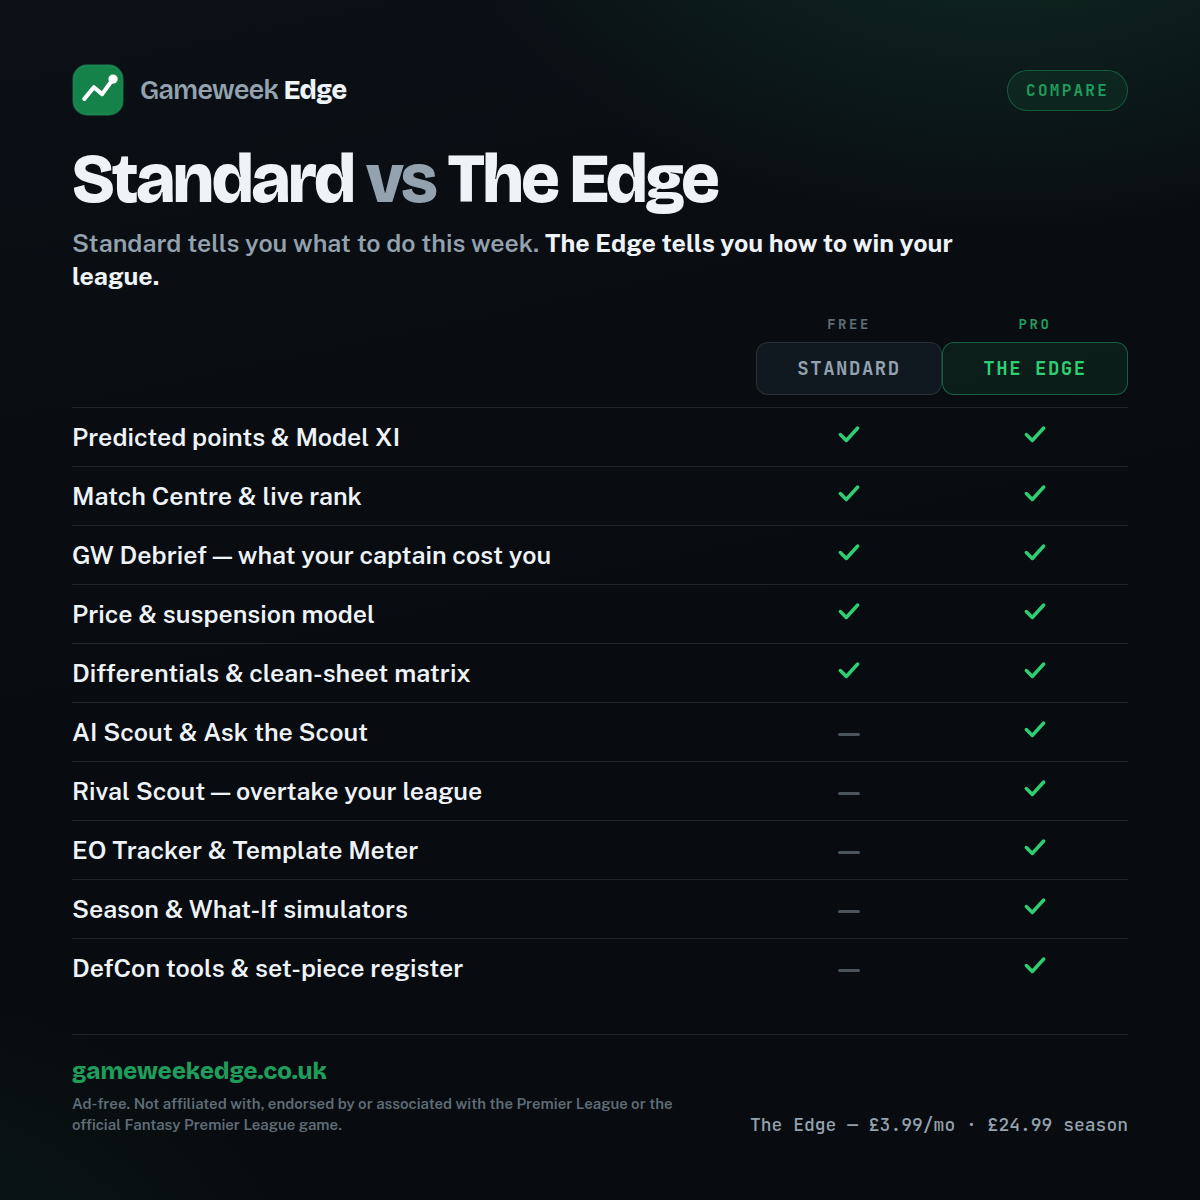
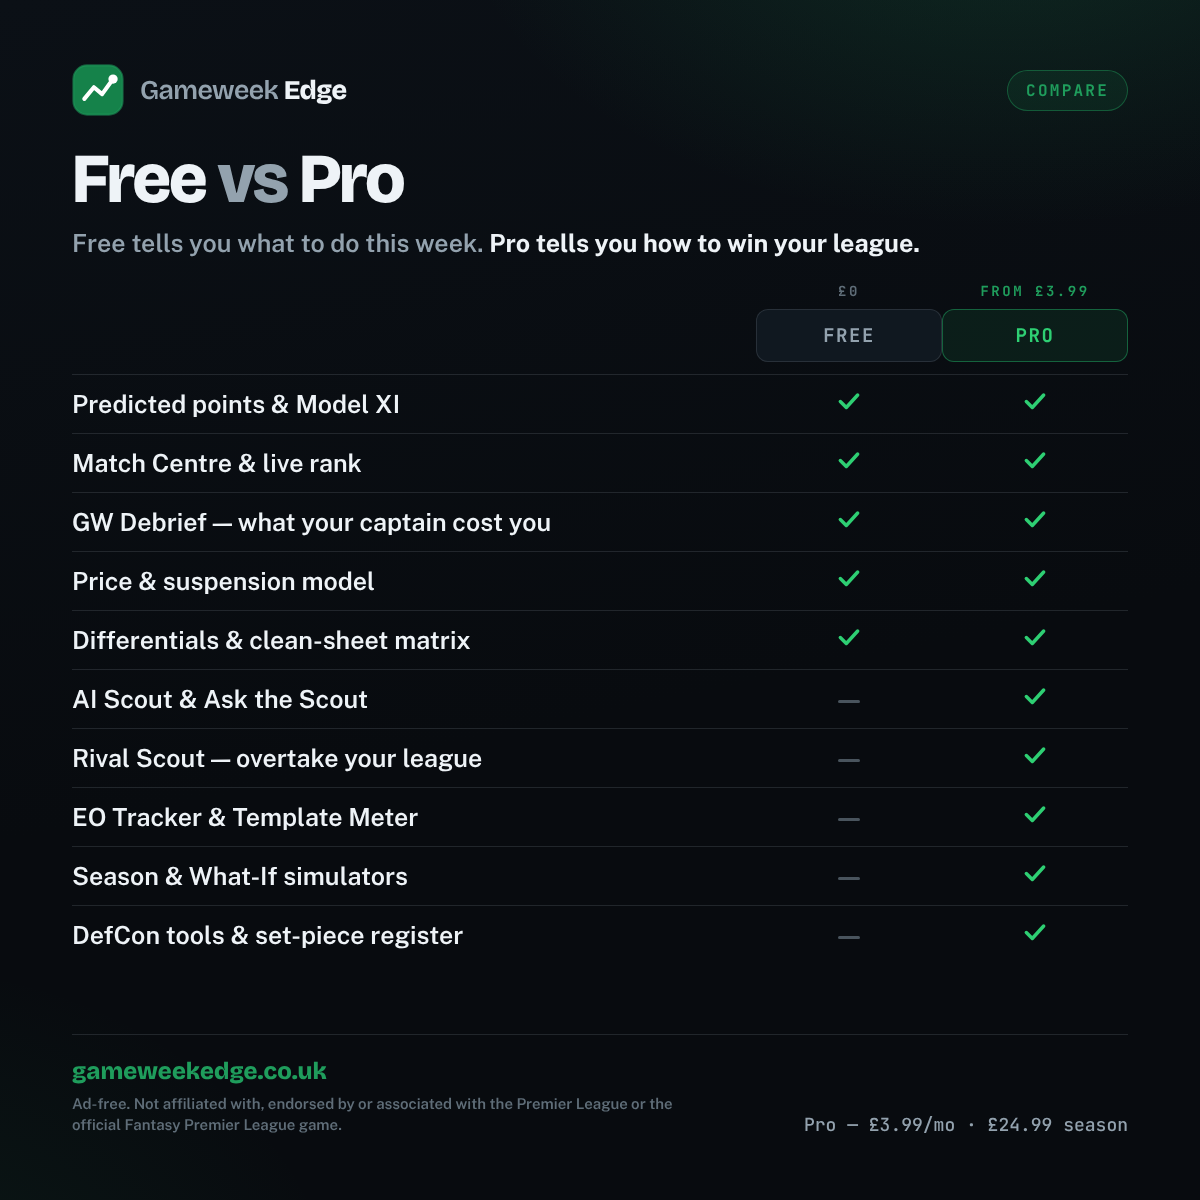
Fix the browser suite, then the should-fix pass from the design review (#80)
* Make the paid plan clear and easy to buy

One plan name everywhere: Pro (and Free), replacing the mix of Pro,
The Edge and Standard.

Upgrade sheet: the two ways to pay are now real buttons and come first.
The season pass leads as best value with its saving worked out from the
prices. A close X replaces the full-width Close button. Each Pro feature
is described by what the manager gets. A link to the public record sits
beside the price. The sheet scrolls inside the screen on small phones.

Pricing page: the same buttons and feature list, shared with the sheet.

First screen: a one-line statement of what the product is, plus proof
points, for direct visitors who never see /welcome.

Locked previews: text behind the blur is rewritten to shape-only
characters, so paid values are no longer readable by selecting or
inspecting the page.

Consent bar: raised above the sidebar, which hid its first words on
desktop.

Claude-Session: https://claude.ai/code/session_018ACBxgeZgtidjnGpPFjAD1

* Fix the browser suite: bring the consent test up to date

The analytics-bar section still asserted the rules from before the
visitor-to-customer work: bar on the first screen, zero requests before a
choice. The app now holds the bar back during the first run and counts a
short allowlist of funnel events as a bare tally. The section threw on a
missing button and took every later section down with it, so the suite
has been red and half-run on main.
[…]

diff --git a/index.html b/index.html
@@ -312,7 +312,7 @@ try{
   --blue-soft:rgba(47,109,199,.10);
   --purple:#795ac6;
   --purple-soft:rgba(122,92,199,.10);
-  --accent-cta:#a46615;--accent-cta-ink:#ffffff;
+  --accent-cta:#147e48;--accent-cta-ink:#ffffff;
   --accent-alert:#c23632;
   --accent-warn:#8a690e;
   --shadow:0 1px 3px rgba(12,16,20,.07),0 6px 16px rgba(12,16,20,.05);
@@ -1537,6 +1537,9 @@ a.sb-game-btn:focus-visible{outline:2px solid var(--green-bright);outline-offset
   .seg{max-width:100%;overflow-x:auto;-webkit-overflow-scrolling:touch}
   .gwchip{max-width:48vw}
   .gwchip-dl{white-space:nowrap;overflow:hidden;text-overflow:ellipsis;max-width:30vw}
+  /* "opens in 6d 2…" lost the one figure the chip exists for. The lead word
+     goes instead; the gameweek and the countdown both fit. */
+  .gwchip-w{display:none}
   #export-btn{display:none}
   #tbm-search kbd{display:none}
   .tb-crumb{display:none}
@@ -3464,6 +3467,7 @@ body.gw-live .live-ping{display:block;animation:tkpulse 1.6s infinite}
            into every pre-rendered shell (those are built from this file) and
            they are there whether or not a script runs. -->
       <p class="sb-foot-links sb-foot-ref">
+        <a href="/pricing">Pricing</a>
         <a href="/tools/">FPL tools</a>
         <a href="/glossary">Glossary</a>
         <a href="/fplbasics">FPL basics</a>
@@ -6515,7 +6519,7 @@ async function buildRightRail(){
         const pred=m.pH>=m.pD&&m.pH>=m.pA?'H':(m.pA>=m.pD?'A':'D');
         const act=f.team_h_score>f.team_a_score?'H':(f.team_h_score<f.team_a_score?'A':'D');if(pred===act)hits++;});
       rec='<div class="rr-h">Recent model calls</div><div class="rr-stat">favourite correct <b>'+Math.round(100*hits/done.length)+'%</b></div>'+
-        '<div class="dl-sub" style="margin-top:6px">Over '+done.length+' graded matches this season. Per-gameweek captain calls build up here as more is played.</div>';
+        '<div class="dl-sub" style="margin-top:6px">Over '+done.length+' graded matches this season. A match has three possible results, so a blind guess is right about 33% of the time. Per-gameweek captain calls build up here as more is played.</div>';
     }else rec='<div class="rr-h">Recent model calls</div><div class="dl-sub">The model’s last three gameweek calls, what it said versus what happened, appear here once the season is under way.</div>';
     document.getElementById('rr-recent').innerHTML=rec;
   }catch(_){}
@@ -7397,7 +7401,9 @@ function proScrub(host){
   const w=document.createTreeWalker(host,NodeFilter.SHOW_TEXT);
   let n;while((n=w.nextNode())){
     const v=n.nodeValue;if(!v||!/[0-9A-Za-zÀ-ÿ]/.test(v))continue;
-    const pe=n.parentNode&&n.parentNode.nodeName;if(pe==='STYLE'||pe==='SCRIPT')continue;
+    const par=n.parentNode,pe=par&&par.nodeName;if(pe==='STYLE'||pe==='SCRIPT')continue;
+    /* Section headings name the tool, not its answer. They stay readable. */
+    if(par&&par.closest&&par.closest('.card-title'))continue;
     const o=proScrubText(v);if(o!==v)n.nodeValue=o;
   }
   host.querySelectorAll('[alt],[title],[aria-label],[data-tip],[placeholder]').forEach(el=>{
@@ -9074,7 +9080,7 @@ async function hydrateDashboard(host){
      than opening it. One strip: the live record when there is one, the
      held-out backtest when there is not, and the way to every prediction. */
   const trust='<div class="trust-strip"><span class="perf-h">Model performance</span>'+
-    (done.length?'<span>favourite correct <b>'+Math.round(100*hits/done.length)+'%</b> \u00b7 '+done.length+' matches</span>'+
+    (done.length?'<span>favourite correct <b>'+Math.round(100*hits/done.length)+'%</b> \u00b7 '+done.length+' matches \u00b7 a blind guess gets 33%</span>'+
       (lastN?'<span>last GW <b>'+lastHits+'/'+lastN+'</b></span>':''):'<span>season not started: graded from kick-off</span>')+
     '<span class="expert-only">backtest '+jt('RPS')+' <b>0.2126</b> '+jt('held-out backtest','held-out')+' 25/26</span>'+
     '<span class="beginner-only">forecasts tested on unseen gameweeks, graded in public</span>'+
@@ -9139,7 +9145,11 @@ async function hydrateDashboard(host){
      and the league-wide numbers, before the model says anything. The
      three calls stay exactly where they were, one screen down. */
   const board=dashBoard(b,fixtures,mid,entry,histAll,liveGwPts);
-  host.innerHTML=hero+board+q1+q1b+jump+
+  /* Without a team the board opens on last week's finished match days,
+     which answers nothing for a newcomer. They get the captain call first:
+     the product's answer, before its scoreboard. A linked manager keeps
+     the board on top, because there it leads with their own points. */
+  host.innerHTML=hero+(mid?board+q1:q1+board)+q1b+jump+
     '<div class="quad-grid expert-only">'+q2+q3+q4+'</div>'+q5+
     dashNextSteps(mid)+trust;
   tickTicker();
@@ -30224,7 +30234,7 @@ function tickTicker(){
     const ms=new Date(focus.deadline_time)-Date.now();
     const t=cdShort(focus.deadline_time)||'–';
     setTone(ms<=36e5?'alert':ms<=216e5?'warn':'');
-    set('tk-dl','deadline <b>'+t+'</b>');
+    set('tk-dl','<span class="gwchip-w">deadline </span><b>'+t+'</b>');
   }else if(ph.phase==='live'){
     setTone('');
     set('tk-dl','<b class="pos">● live</b>: in play now');
@@ -30234,7 +30244,7 @@ function tickTicker(){
   }else if(ph.phase==='between'&&ph.target){
     setTone('');
     const t=cdShort(ph.target.deadline_time);
-    set('tk-dl','opens <b>'+(t||fmtDayShort(ph.target.deadline_time))+'</b>');
+    set('tk-dl','<span class="gwchip-w">opens </span><b>'+(t||fmtDayShort(ph.target.deadline_time))+'</b>');
   }else{
     setTone('');
     set('tk-dl','season <b>ended</b>');

diff --git a/scripts/social/standard-vs-edge.html b/scripts/social/standard-vs-edge.html
@@ -2,7 +2,7 @@
 <html lang="en-GB">
 <head>
 <meta charset="utf-8">
-<title>Gameweek Edge — Standard vs The Edge</title>
+<title>Gameweek Edge — Free vs Pro</title>
 <link rel="stylesheet" href="./fonts/fonts.css">
 <style>
 /* Evergreen social card — 1200×1200, the tier comparison.
@@ -98,9 +98,9 @@ tbody tr.pro-row td:first-child{color:var(--ink)}
   </div>
 
   <div class="head">
-    <h1>Standard <em>vs</em> The Edge</h1>
-    <p class="sub">Standard tells you what to do this week.
-      <b>The Edge tells you how to win your league.</b></p>
+    <h1>Free <em>vs</em> Pro</h1>
+    <p class="sub">Free tells you what to do this week.
+      <b>Pro tells you how to win your league.</b></p>
   </div>
 
   <table>
@@ -108,8 +108,8 @@ tbody tr.pro-row td:first-child{color:var(--ink)}
     <thead>
       <tr>
         <th></th>
-        <th><span class="cap">Free</span><span class="chip">Standard</span></th>
-        <th><span class="cap pro">Pro</span><span class="chip pro">The Edge</span></th>
+        <th><span class="cap">£0</span><span class="chip">Free</span></th>
+        <th><span class="cap pro">from £3.99</span><span class="chip pro">Pro</span></th>
       </tr>
     </thead>
     <tbody id="rows"></tbody>
@@ -120,7 +120,7 @@ tbody tr.pro-row td:first-child{color:var(--ink)}
       <em>Ad-free. Not affiliated with, endorsed by or associated with the Premier
         League or the official Fantasy Premier League game.</em>
     </div>
-    <div class="ft-r">The Edge — £3.99/mo · £24.99 season</div>
+    <div class="ft-r">Pro — £3.99/mo · £24.99 season</div>
   </div>
 </div>
 

diff --git a/docs/social/CONTENT_PACK_AUG-05_TO_GW1.md b/docs/social/CONTENT_PACK_AUG-05_TO_GW1.md
@@ -24,7 +24,7 @@ the moment the deadline passes on the 21st.
 |---|---|---|---|
 | 1 | ~~Render the DefCon explainer card.~~ **Done** — `assets/social/gwe-defcon-explainer.png`, built by `npm run social` from `scripts/social/defcon-explainer.html`. | Post 1 (Wed 5 Aug) needed it. | ☑ |
 | 2 | **Batch-render the Social Studio cards** listed in §2 and drop them in `assets/social/`. Must be done **in the app, signed in as owner** — the Studio draws from the live FPL API, so these cannot be generated from the repo. | Seven of the fourteen posts attach one. | ☐ |
-| 3 | **Bio + pin, both platforms.** Unofficial-status line in the bio (not on every post); pin the Standard vs The Edge post once it's up on the 14th. | Keeps individual posts clean and legally covered. | ☐ |
+| 3 | **Bio + pin, both platforms.** Unofficial-status line in the bio (not on every post); pin the Free vs Pro post once it's up on the 14th. | Keeps individual posts clean and legally covered. | ☐ |
 
 ---
 
@@ -48,7 +48,7 @@ is now *teach → prove → sharpen → convert*:
 |---|---|---|---|
 | **Job** | Give away real analysis; show the model grades itself | Turn analysis into a concrete GW1 squad | Highest-intent moment of the year |
 | **Posts** | 7 | 5 | 2 |
-| **The Edge push** | One (Fri 14, after a week of free value) | — | One, in the deadline post |
+| **Pro push** | One (Fri 14, after a week of free value) | — | One, in the deadline post |
 
 **Four ideas are new**, drawn from panels the earlier packs never used: the
 **Chip plan** (GW1–19), the **Pre-season Draft**, the **Set Piece Register**
@@ -93,7 +93,7 @@ design — Posts 4, 8b and 13.
 | Scheduling | Typefully | Buffer (Typefully is X-only) — **never auto-mirror the X copy** |
 
 **Brand quick-ref** — calm, British English, *"predicted points"* not *"nailed
-on"*. Paid tier is **The Edge**, £3.99/mo or £24.99 season. Free tier includes
+on"*. Paid tier is **Pro**, £3.99/mo or £24.99 season. Free tier includes
 live rank, Bonus Tracker, Match Centre and GW Debrief. Link:
 **gameweekedge.co.uk**. Disclaimer lives in the bio; it goes in a post only
 where noted.
@@ -279,25 +279,25 @@ the opening six gameweeks."
 
 ---
 
-## POST 7 — Standard vs The Edge *(Fri 14 Aug, 6–8pm)* — **pin this**
+## POST 7 — Free vs Pro *(Fri 14 Aug, 6–8pm)* — **pin this**
 
 Placed after nine days of free value, so it reads as a payoff rather than a
 pitch. **Attach `gwe-standard-vs-edge.png`.** Pin it on both platforms — it's the
 answer to "what's the paid bit?" for the rest of the run-in.
 
-**Alt text:** "Comparison table — Standard versus The Edge. Both include
+**Alt text:** "Comparison table — Free versus Pro. Both include
 predicted points, Match Centre and live rank, GW Debrief, the price and
-suspension model, and differentials. The Edge adds AI Scout, Rival Scout, EO
+suspension model, and differentials. Pro adds AI Scout, Rival Scout, EO
 Tracker and Template Meter, the season and what-if simulators, and DEFCON tools."
 
 **X:**
 > Gameweek Edge, two ways:
 >
-> **Standard** (free, ad-free) — predicted points, Match Centre, live rank, price & suspension model, and a debrief that tells you what your captain actually cost you.
+> **Free** (ad-free) — predicted points, Match Centre, live rank, price & suspension model, and a debrief that tells you what your captain actually cost you.
 >
-> **The Edge** (£3.99/mo · £24.99 season) — how to win your mini-league: AI Scout, Rival Scout, EO Tracker, the simulators.
+> **Pro** (£3.99/mo · £24.99 season) — how to win your mini-league: AI Scout, Rival Scout, EO Tracker, the simulators.
 >
-> Standard tells you what to do this week. The Edge tells you how to win your league.
+> Free tells you what to do this week. Pro tells you how to win your league.
 >
 > gameweekedge.co.uk
 > *Not affiliated with the Premier League or the official Fantasy Premier League game.*
@@ -305,8 +305,8 @@ Tracker and Template Meter, the season and what-if simulators, and DEFCON tools.
 **Bluesky:**
 > Gameweek Edge, two ways:
 >
-> Standard (free, ad-free) — what to do this week.
-> The Edge (£3.99) — how to win your league: AI Scout, Rival Scout, EO Tracker, the simulators.
+> Free (ad-free) — what to do this week.
+> Pro (£3.99) — how to win your league: AI Scout, Rival Scout, EO Tracker, the simulators.
 >
 > One app, one tap deeper. #FPL
 > gameweekedge.co.uk
@@ -479,9 +479,9 @@ each price point for gameweek 1."
 
 # PART THREE — Fri 21 Aug · *deadline day*
 
-## POST 13 — Deadline nudge + The Edge *(Fri 21 Aug, ~1pm)*
+## POST 13 — Deadline nudge + Pro *(Fri 21 Aug, ~1pm)*
 
-Highest-intent moment of the entire run-in. Free value in the body, The Edge as
+Highest-intent moment of the entire run-in. Free value in the body, Pro as
 the payoff. **Post this one live** so you can pin the real deadline time rather
 than a scheduled guess. No image — urgency reads better as plain text.
 
@@ -493,7 +493,7 @@ than a scheduled guess. No image — urgency reads better as plain text.
 > ✅ Chips planned, not just picked
 > ✅ Your rivals' likely captains — and where your differential actually is
 >
-> The first three are free, for everyone. The fourth is The Edge.
+> The first three are free, for everyone. The fourth is Pro.
 >
 > Good luck tonight 👇 gameweekedge.co.uk
 
@@ -521,14 +521,14 @@ that evening.
 | **9 Aug** | Sun | 4 | Conversation post | poll | single | ~7pm |
 | **11 Aug** | Tue | 5 | Model grades itself ⚓ | single + shot | single | 6–8pm |
 | **13 Aug** | Thu | 6 | Opening fixtures | single + card | single + card | 6–8pm |
-| **14 Aug** | Fri | 7 | Standard vs The Edge 📌 | single + card | single + card | 6–8pm |
+| **14 Aug** | Fri | 7 | Free vs Pro 📌 | single + card | single + card | 6–8pm |
 | **15 Aug** | Sat | 8 | Who takes what | single + card | single + card | late morning |
 | **16 Aug** | Sun | 8b | Reply-bait follow-up | single | single | ~7pm |
 | **17 Aug** | Mon | 9 | The Data XI ⭐ | single + card | thread ×2 + card | 6–8pm |
 | **18 Aug** | Tue | 10 | Price watch | single + shot | single + shot | 6–8pm |
 | **19 Aug** | Wed | 11 | Captaincy (switches on) | single + card | single + card | 6–8pm |
 | **20 Aug** | Thu | 12 | DefCon by budget | single + card | single + card | 6–8pm |
-| **21 Aug** | Fri | 13 | Deadline + The Edge | single, **live** | single, **live** | ~1pm |
+| **21 Aug** | Fri | 13 | Deadline + Pro | single, **live** | single, **live** | ~1pm |
 
 ⭐ shareable anchor · ⚓ credibility anchor · 📌 pin it
 

diff --git a/docs/social/CONTENT_PACK_16-21_AUG.md b/docs/social/CONTENT_PACK_16-21_AUG.md
@@ -43,7 +43,7 @@ want them; none of them were the payload.
 | **Mon 17** | DefCon by budget | yes | Studio → **DefCon by budget** |
 | **Tue 18** | Where the value is | yes | Studio → **Underpriced** |
 | **Wed 19** | First captaincy call ⭐ | yes | Studio → **Best captains** |
-| **Thu 20** | Standard vs The Edge | yes | `assets/social/gwe-standard-vs-edge.png` — already in the repo |
+| **Thu 20** | Free vs Pro | yes | `assets/social/gwe-standard-vs-edge.png` — already in the repo |
 | **Fri 21** | Deadline nudge ⭐ | none | Plain text, posted live ~1pm |
 
 **If the week gets away from you, do these three:** Sun 16, Wed 19, Fri 21.
@@ -197,24 +197,24 @@ Two days out, which is when people actually decide. **Card:** Studio →
 
 ---
 
-## Thu 20 Aug — Standard vs The Edge
+## Thu 20 Aug — Free vs Pro
 
 The one paid post of the week, the day before the deadline when intent is
 climbing. **Card:** `assets/social/gwe-standard-vs-edge.png` — already in the
 repo, nothing to render.
-**Alt text:** "Comparison table — Standard versus The Edge. Both include
+**Alt text:** "Comparison table — Free versus Pro. Both include
 predicted points, Match Centre and live rank, GW Debrief, the price and
-suspension model, and differentials. The Edge adds AI Scout, Rival Scout, EO
+suspension model, and differentials. Pro adds AI Scout, Rival Scout, EO
 Tracker and Template Meter, the season and what-if simulators, and DefCon tools."
 
 **X**
 > Gameweek Edge, two ways:
 >
-> **Standard** (free, ad-free) — predicted points, Match Centre, live rank, the price and suspension model, and a debrief that tells you what your captain actually cost you.
+> **Free** (ad-free) — predicted points, Match Centre, live rank, the price and suspension model, and a debrief that tells you what your captain actually cost you.
 >
-> **The Edge** (£3.99/mo · £24.99 season) — how to win your mini-league: AI Scout, Rival Scout, EO Tracker, the simulators.
+> **Pro** (£3.99/mo · £24.99 season) — how to win your mini-league: AI Scout, Rival Scout, EO Tracker, the simulators.
 >
-> Standard tells you what to do this week. The Edge tells you how to win your league.
+> Free tells you what to do this week. Pro tells you how to win your league.
 >
 > gameweekedge.co.uk
 > *Not affiliated with the Premier League or the official Fantasy Premier League game.*
@@ -222,8 +222,8 @@ Tracker and Template Meter, the season and what-if simulators, and DefCon tools.
 **Bluesky**
 > Gameweek Edge, two ways:
 >
-> Standard (free, ad-free) — what to do this week.
-> The Edge (£3.99) — how to win your league: AI Scout, Rival Scout, EO Tracker, the simulators.
+> Free (ad-free) — what to do this week.
+> Pro (£3.99) — how to win your league: AI Scout, Rival Scout, EO Tracker, the simulators.
 >
 > One app, one tap deeper. #FPL
 > gameweekedge.co.uk
@@ -244,7 +244,7 @@ rather than a guess.
 > ✅ Chips planned, not just picked
 > ✅ Your rivals' likely captains — and where your differential actually is
 >
-> The first three are free, for everyone. The fourth is The Edge.
+> The first three are free, for everyone. The fourth is Pro.
 >
 > Good luck tonight 👇 gameweekedge.co.uk
 

diff --git a/docs/social/GW1_WEEKEND_PLAN.md b/docs/social/GW1_WEEKEND_PLAN.md
@@ -87,7 +87,7 @@ with them; the plan is keyed to *events*, not clock times.
 |---|---|---|
 | ~07:00 | Overnight prices | Check what moved; the first changes of the season are a story |
 | ~18:00 | — | **P25 — first price changes** |
-| ~19:30 | — | **P26 — GW2 pivot + The Edge** |
+| ~19:30 | — | **P26 — GW2 pivot + Pro** |
 | Wed 26 | — | Weekly pack resumes; captaincy post runs 48h before the GW2 deadline |
 
 ---
@@ -456,7 +456,7 @@ probability score against the backtest baseline."
 
 ---
 
-### P26 — GW2 pivot + The Edge *(Tue ~19:30)*
+### P26 — GW2 pivot + Pro *(Tue ~19:30)*
 
 The weekend's one paid post, placed where intent peaks: everyone who had a bad
 GW1 is looking for an edge on Tuesday night. **Attach `gwe-standard-vs-edge.png`.**
@@ -466,19 +466,19 @@ GW1 is looking for an edge on Tuesday night. **Attach `gwe-standard-vs-edge.png`
 **X:**
 > One gameweek in, and your mini-league table already means something.
 >
-> **Standard** (free) — your live rank, the gap, the debrief, the model's GW2 picks.
+> **Free** — your live rank, the gap, the debrief, the model's GW2 picks.
 >
-> **The Edge** (£3.99) — Rival Scout: who owns what, where your differentials actually are, and the exact captain swing that overtakes the person above you. Plus EO Tracker, the simulators and the AI Scout.
+> **Pro** (£3.99) — Rival Scout: who owns what, where your differentials actually are, and the exact captain swing that overtakes the person above you. Plus EO Tracker, the simulators and the AI Scout.
 >
-> Standard tells you what to do this week. The Edge tells you how to win your league.
+> Free tells you what to do this week. Pro tells you how to win your league.
 >
 > gameweekedge.co.uk
 
 **Bluesky:**
 > One gameweek in and your mini-league table already means something.
 >
-> Standard (free) — live rank, the gap, the debrief.
-> The Edge (£3.99) — Rival Scout: who owns what, and the exact captain swing that overtakes them.
+> Free — live rank, the gap, the debrief.
+> Pro (£3.99) — Rival Scout: who owns what, and the exact captain swing that overtakes them.
 >
 > One app, one tap deeper. #FPL
 > gameweekedge.co.uk
@@ -577,7 +577,7 @@ are all switched on for the first time:
    usually around GW4.
 4. **Captaincy** — 48h before every deadline, without exception.
 
-Plus the per-decision *Standard vs The Edge* series — captaincy, mini-leagues,
+Plus the per-decision *Free vs Pro* series — captaincy, mini-leagues,
 transfers, the template, the run-in — one a week, each tied to a real gameweek
 moment rather than posted cold.
 

diff --git a/DESIGN.md b/DESIGN.md
@@ -30,7 +30,7 @@ applied before first paint by a head script, so neither theme ever flashes.
 | `--red` | `#ff4d4f` | `#c93834` | genuine negatives only: injury out, price fall, over budget |
 | `--amber` / `--lock` | `#f5a524` | `#8f5a12` / `#8a5410` | "watch this" and the Pro affordance |
 | `--blue` | `#4f92ff` | `#2e6ac2` | info. The brief's `#3b82f6` measures 4.45:1 on `--surface-3`, so it is lifted |
-| `--accent-cta` | green fill, canvas ink | amber fill, white ink | actions read as actions |
+| `--accent-cta` | green fill, canvas ink | green fill, white ink | actions read as actions, in the brand colour in both themes |
 
 Shadows are off in the terminal (`--shadow` is transparent); only floating
 layers cast (`--shadow-lg`). The brand gradient pair (`--grad-brand`,

diff --git a/docs/social/WEEKLY_RHYTHM.md b/docs/social/WEEKLY_RHYTHM.md
@@ -221,7 +221,7 @@ ones, and it costs nothing but nerve.
 *(This is the one post in the document with something to fill in, because the
 honest version has to name what happened. Keep it to one clause.)*
 
-**Standard vs The Edge** — the paid post. Every second or third cycle, never
+**Free vs Pro** — the paid post. Every second or third cycle, never
 more, and always after a run of free value rather than in front of it. Card is
 already in the repo: `assets/social/gwe-standard-vs-edge.png`. Copy is in
 `CONTENT_PACK_16-21_AUG.md`, Thu 20 Aug.

diff --git a/docs/social/THE_MONTH_23AUG.md b/docs/social/THE_MONTH_23AUG.md
@@ -137,7 +137,7 @@ show up in your captain's legs on the Saturday.
 
 ## The one paid post
 
-**Standard vs The Edge** — `assets/social/gwe-standard-vs-edge.png`, already in
+**Free vs Pro** — `assets/social/gwe-standard-vs-edge.png`, already in
 the repo, nothing to render. Once in the month, no more, and always after a run
 of free value rather than in front of it. **Thu 3 Sep** is the natural slot:
 three gameweeks of free cards behind you and a break about to give people time
